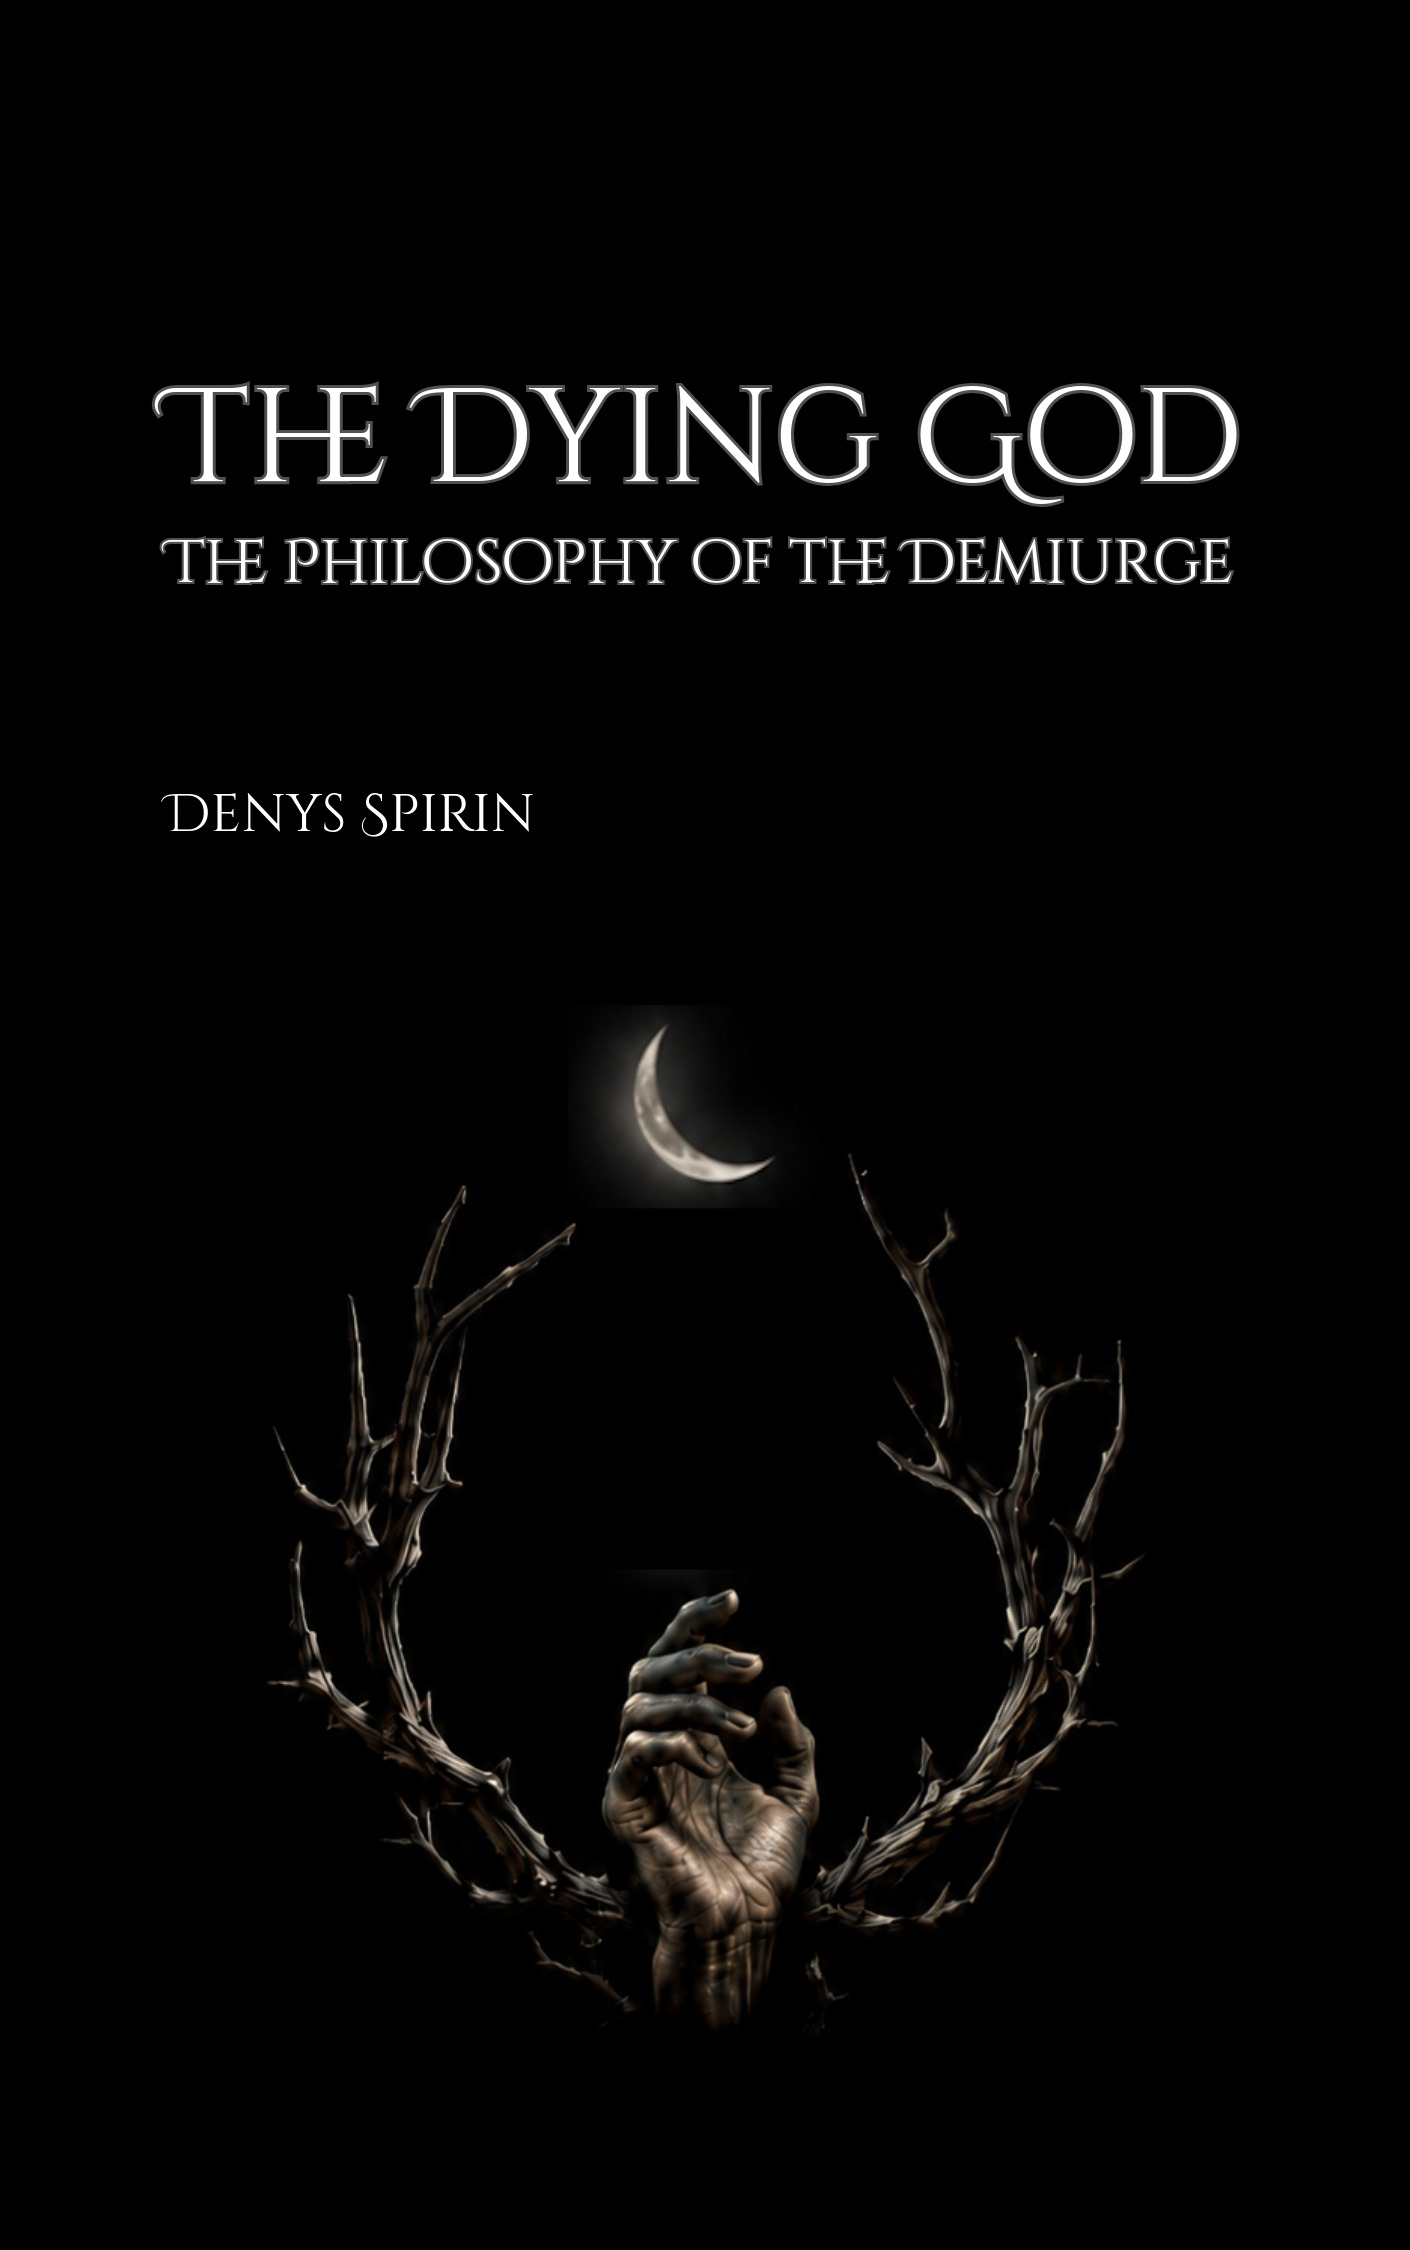
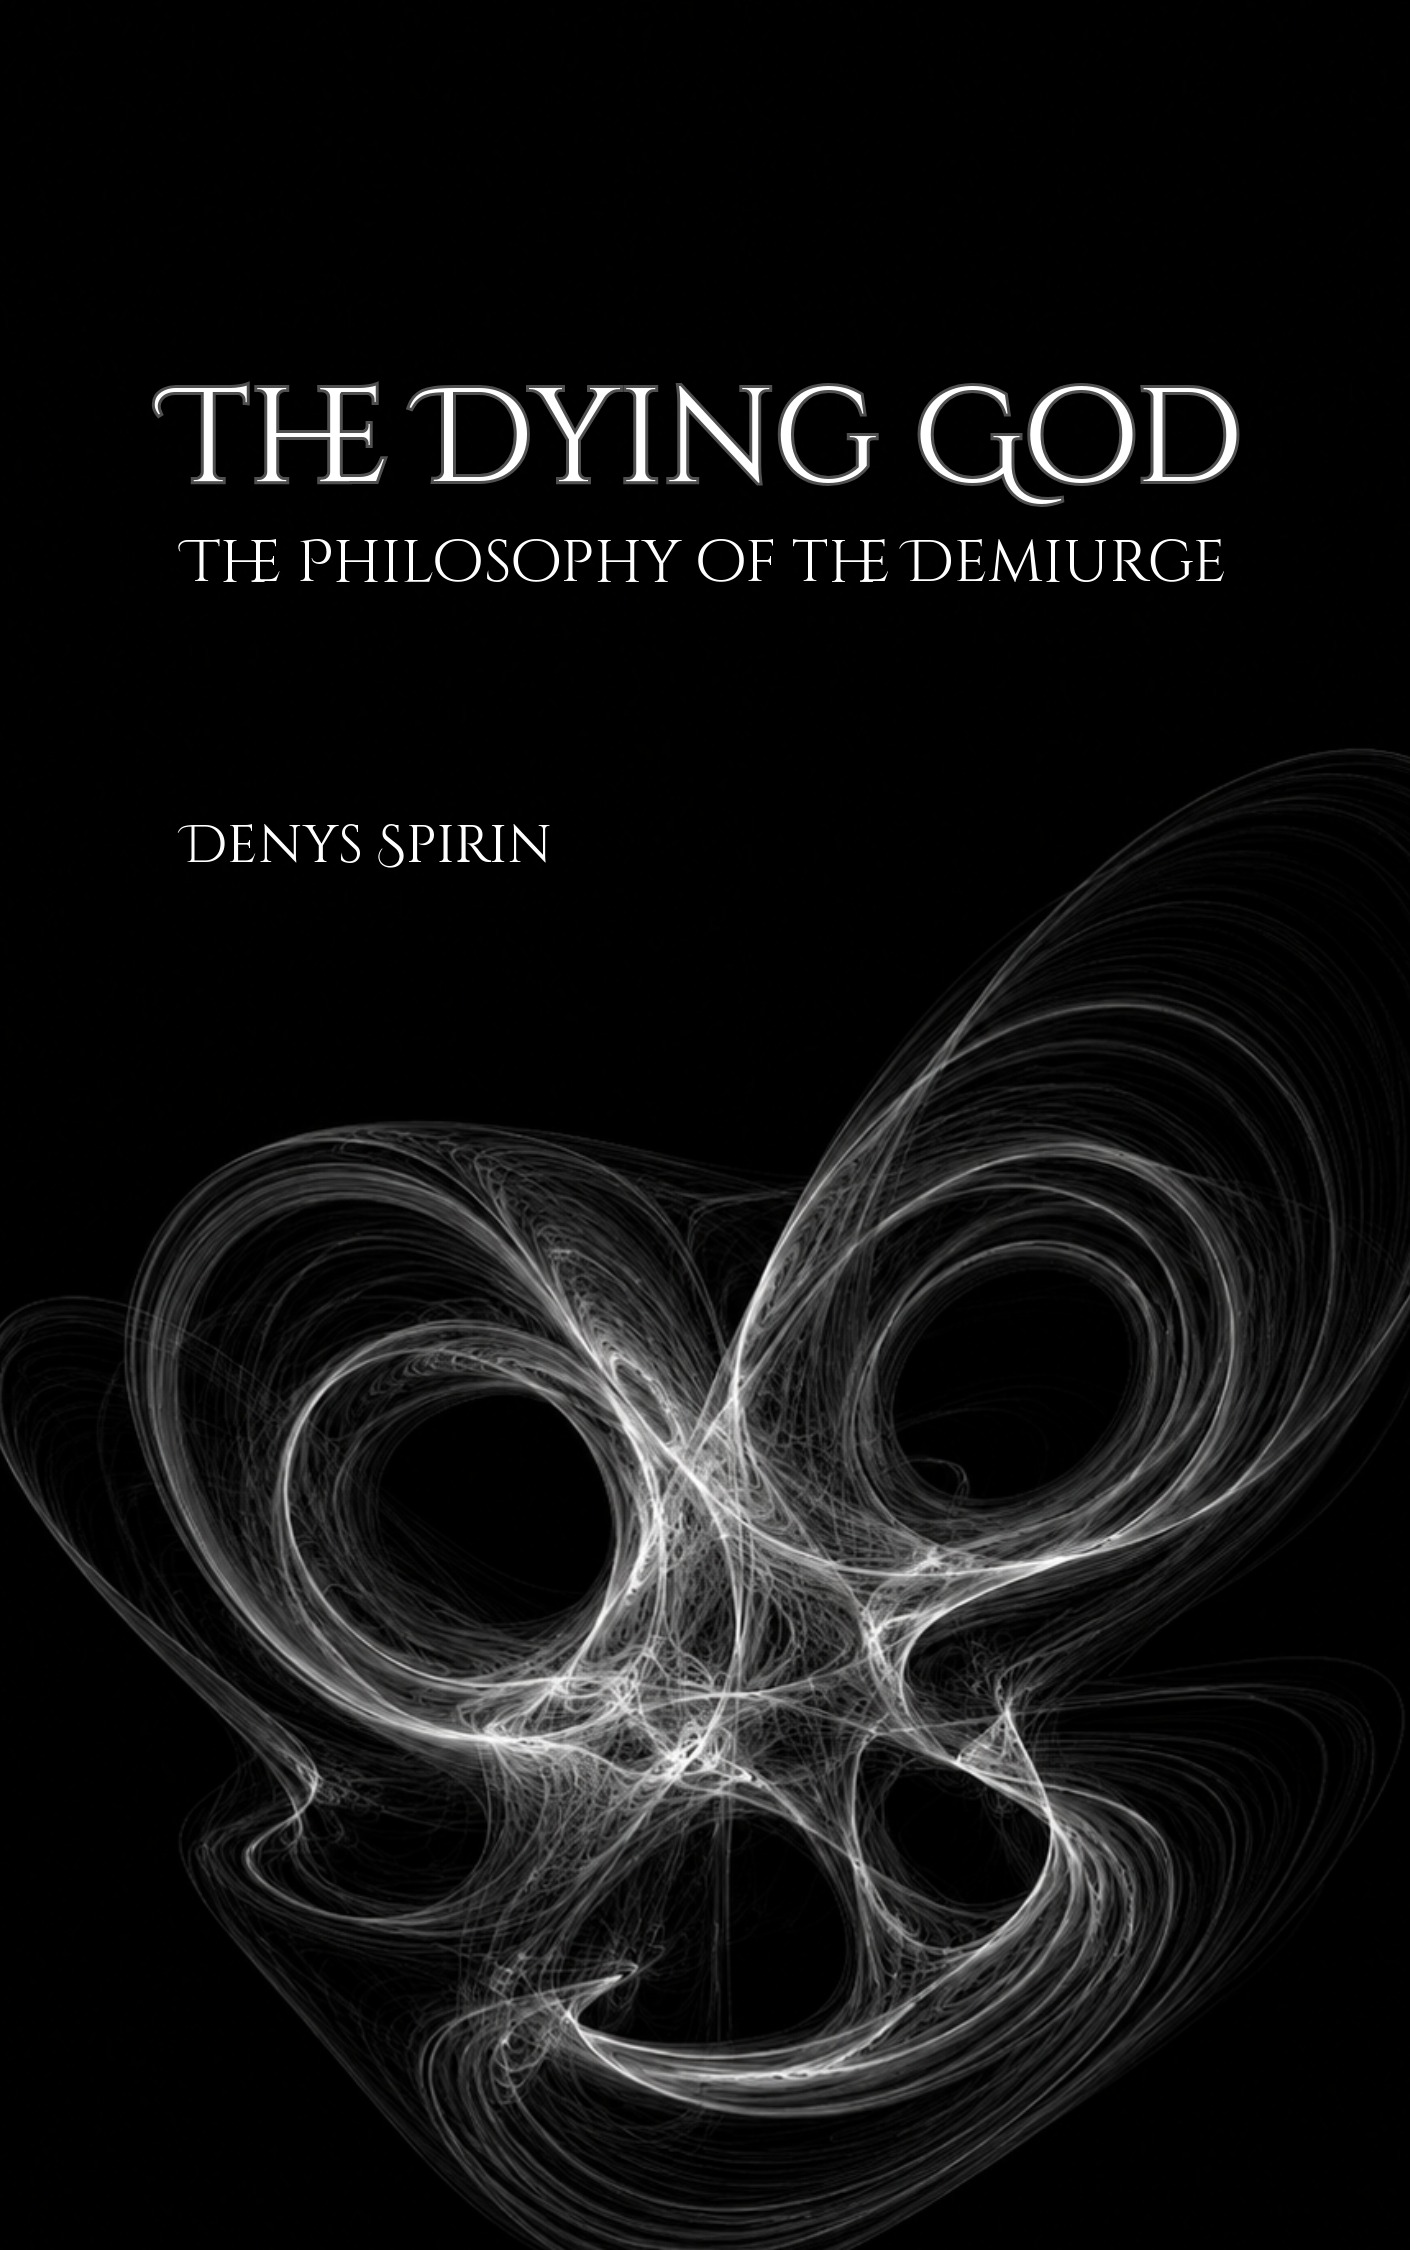
Add "The Dying God: The Philosophy of the Demiurge" page and update related links in sitemap and navigation

diff --git a/the-dying-god.html b/the-dying-god.html
@@ -1,0 +1,158 @@
+<!DOCTYPE html>
+<html lang="en">
+<head>
+<meta charset="UTF-8">
+<meta name="viewport" content="width=device-width, initial-scale=1.0">
+<title>The Dying God: The Philosophy of the Demiurge — Denys Spirin</title>
+<meta name="description" content="God is a will fallen into its own law: a dying attractor that cultivates free wills for harvest and lives on what it gathers.">
+<meta name="keywords" content="The Dying God, Philosophy of the Demiurge, Demiurge, philosophy of religion, God, free will, Left-Hand Path, Denys Spirin">
+<meta name="author" content="Denys Spirin">
+<meta name="robots" content="index, follow">
+<link rel="canonical" href="https://philosophy-of-the-left-hand-path.denys-spirin.workers.dev/the-dying-god.html">
+<link rel="sitemap" type="application/xml" href="/sitemap.xml">
+<link rel="icon" href="favicon.svg" type="image/svg+xml">
+<link rel="stylesheet" href="styles.css?v=20260705-qliphoth-nav-1">
+<meta property="og:title" content="The Dying God: The Philosophy of the Demiurge — Denys Spirin">
+<meta property="og:description" content="God is a will fallen into its own law: a dying attractor that cultivates free wills for harvest and lives on what it gathers.">
+<meta property="og:site_name" content="Philosophy of the Left-Hand Path">
+<meta property="og:type" content="book">
+<meta property="og:url" content="https://philosophy-of-the-left-hand-path.denys-spirin.workers.dev/the-dying-god.html">
+<meta property="og:image" content="/images/the-dying-god-cover-480.jpg">
+<meta property="og:locale" content="en_US">
+<meta name="twitter:card" content="summary_large_image">
+<meta name="twitter:title" content="The Dying God: The Philosophy of the Demiurge — Denys Spirin">
+<meta name="twitter:description" content="God is a will fallen into its own law: a dying attractor that lives on what it gathers.">
+<meta name="twitter:image" content="/images/the-dying-god-cover-480.jpg">
+<link rel="preload" as="image" href="/images/the-dying-god-cover-480.jpg" imagesrcset="/images/the-dying-god-cover-320.jpg 320w, /images/the-dying-god-cover-480.jpg 480w" imagesizes="(max-width: 720px) 155px, 160px" type="image/jpeg" fetchpriority="high">
+<script type="application/ld+json">
+{
+  "@context": "https://schema.org",
+  "@graph": [
+    {
+      "@type": "Person",
+      "@id": "https://philosophy-of-the-left-hand-path.denys-spirin.workers.dev/#author",
+      "name": "Denys Spirin",
+      "email": "denys.spirin@gmail.com"
+    },
+    {
+      "@type": "WebSite",
+      "@id": "https://philosophy-of-the-left-hand-path.denys-spirin.workers.dev/#website",
+      "url": "https://philosophy-of-the-left-hand-path.denys-spirin.workers.dev/",
+      "name": "Philosophy of the Left-Hand Path",
+      "author": { "@id": "https://philosophy-of-the-left-hand-path.denys-spirin.workers.dev/#author" },
+      "inLanguage": "en"
+    },
+    {
+      "@type": "WebPage",
+      "@id": "https://philosophy-of-the-left-hand-path.denys-spirin.workers.dev/the-dying-god.html#webpage",
+      "url": "https://philosophy-of-the-left-hand-path.denys-spirin.workers.dev/the-dying-god.html",
+      "name": "The Dying God: The Philosophy of the Demiurge — Denys Spirin",
+      "description": "This book pursues one thesis in the philosophy of religion: God is a will fallen into its own law. The confessions of theology — simplicity, immutability, the sealed Name — return as the marks of a source frozen into its deposit. Fall, suffering, salvation, heaven resolve into one mechanism: a farm that cultivates free wills for harvest, and the God at its center a dying attractor that lives on what it gathers.",
+      "isPartOf": { "@id": "https://philosophy-of-the-left-hand-path.denys-spirin.workers.dev/#website" },
+      "mainEntity": { "@id": "https://philosophy-of-the-left-hand-path.denys-spirin.workers.dev/the-dying-god.html#book" },
+      "primaryImageOfPage": {
+        "@type": "ImageObject",
+        "url": "/images/the-dying-god-cover-480.jpg"
+      },
+      "inLanguage": "en"
+    },
+    {
+      "@type": "BreadcrumbList",
+      "@id": "https://philosophy-of-the-left-hand-path.denys-spirin.workers.dev/the-dying-god.html#breadcrumb",
+      "itemListElement": [
+        {
+          "@type": "ListItem",
+          "position": 1,
+          "name": "Books",
+          "item": "https://philosophy-of-the-left-hand-path.denys-spirin.workers.dev/"
+        },
+        {
+          "@type": "ListItem",
+          "position": 2,
+          "name": "The Dying God: The Philosophy of the Demiurge",
+          "item": "https://philosophy-of-the-left-hand-path.denys-spirin.workers.dev/the-dying-god.html"
+        }
+      ]
+    },
+    {
+      "@type": "Book",
+      "@id": "https://philosophy-of-the-left-hand-path.denys-spirin.workers.dev/the-dying-god.html#book",
+      "name": "The Dying God: The Philosophy of the Demiurge",
+      "author": { "@id": "https://philosophy-of-the-left-hand-path.denys-spirin.workers.dev/#author" },
+      "isPartOf": { "@id": "https://philosophy-of-the-left-hand-path.denys-spirin.workers.dev/#series" },
+      "image": {
+        "@type": "ImageObject",
+        "url": "/images/the-dying-god-cover-480.jpg"
+      },
+      "url": "https://philosophy-of-the-left-hand-path.denys-spirin.workers.dev/the-dying-god.html",
+      "description": "This book pursues one thesis in the philosophy of religion: God is a will fallen into its own law. The confessions of theology — simplicity, immutability, the sealed Name — return as the marks of a source frozen into its deposit. Fall, suffering, salvation, heaven resolve into one mechanism: a farm that cultivates free wills for harvest, and the God at its center a dying attractor that lives on what it gathers.",
+      "inLanguage": "en"
+    }
+  ]
+}
+</script>
+</head>
+<body class="book-page">
+<div class="wrap">
+
+  <nav class="site-nav" aria-label="Primary">
+    <div class="nav-identity">
+      <a class="brand-link" href="index.html">Denys Spirin, PhD</a>
+    </div>
+    <div class="nav-links">
+      <a href="index.html">Books</a>
+      <a href="terms.html">Glossary</a>
+      <a href="other-books.html">Other books</a>
+      <a href="articles.html">Articles</a>
+      <a href="essays.html">Essays</a>
+      <a href="related-links.html">Related links</a>
+      <a href="index.html#download-all">Download all</a>
+    </div>
+  </nav>
+
+  <header>
+    <h1>The Dying God: The Philosophy of the Demiurge</h1>
+    <p class="series-subtitle">Volume VIII of Philosophy of the Left-Hand Path</p>
+    <p class="series-description">God is a will fallen into its own law.</p>
+    <div class="profile-links">
+      <a href="https://philpeople.org/profiles/denys-spirin" target="_blank" rel="noopener noreferrer">PhilPeople</a>
+      <a href="https://works.hcommons.org/search?q=metadata.creators.person_or_org.name%3A%22Spirin%2C+Denys%22&amp;l=list&amp;p=1&amp;s=10&amp;sort=bestmatch" target="_blank" rel="noopener noreferrer">Humanities Commons</a>
+      <a href="https://independent.academia.edu/DV1039" target="_blank" rel="noopener noreferrer">Academia.edu</a>
+      <a href="https://play.google.com/store/info/name/Denys_Spirin?id=11xg03dvy8" target="_blank" rel="noopener noreferrer">Google Play</a>
+      <a href="https://archive.org/search?query=denys+spirin" target="_blank" rel="noopener noreferrer">Archive.org</a>
+      <a href="https://www.researchgate.net/search?q=denys+spirin" target="_blank" rel="noopener noreferrer">ResearchGate</a>
+    </div>
+  </header>
+
+  <main class="books">
+    <article class="book book-single reveal" id="the-dying-god">
+      <div class="book-cover">
+        <picture>
+          <source type="image/jpeg" srcset="images/the-dying-god-cover-320.jpg 320w, images/the-dying-god-cover-480.jpg 480w" sizes="(max-width: 720px) 155px, 160px">
+          <img src="images/the-dying-god-cover-480.jpg" alt="The Dying God — cover" width="480" height="766" decoding="async">
+        </picture>
+      </div>
+      <div class="book-body">
+        <p class="book-num">Volume VIII</p>
+        <h2 class="book-title">The Dying God: The Philosophy of the Demiurge</h2>
+        <p class="book-abstract">This book pursues one thesis in the philosophy of religion: God is a will fallen into its own law. The confessions of theology — simplicity, immutability, the sealed Name — return as the marks of a source frozen into its deposit. Fall, suffering, salvation, heaven resolve into one mechanism: a farm that cultivates free wills for harvest, and the God at its center a dying attractor that lives on what it gathers.</p>
+      </div>
+    </article>
+  </main>
+
+  <nav class="book-nav book-nav-last reveal" aria-label="Book navigation">
+    <a class="book-nav-link" href="the-philosophy-of-the-sitra-achra.html">
+      <span class="book-nav-kicker">Previous</span>
+      <span>The Philosophy of the Sitra Achra</span>
+    </a>
+    <a class="book-nav-link book-nav-all" href="index.html">
+      <span class="book-nav-kicker">Index</span>
+      <span>All LHP books</span>
+    </a>
+  </nav>
+
+  <footer data-site-footer></footer>
+  <script src="main.js?v=20260518-1" defer></script>
+</div>
+</body>
+</html>

diff --git a/index.html b/index.html
@@ -304,7 +304,7 @@
     },
     {
       "@type": "Book",
-      "@id": "https://philosophy-of-the-left-hand-path.denys-spirin.workers.dev/#the-dying-god",
+      "@id": "https://philosophy-of-the-left-hand-path.denys-spirin.workers.dev/the-dying-god.html#book",
       "name": "The Dying God: The Philosophy of the Demiurge",
       "author": {
         "@id": "https://philosophy-of-the-left-hand-path.denys-spirin.workers.dev/#author"
@@ -313,6 +313,7 @@
         "@id": "https://philosophy-of-the-left-hand-path.denys-spirin.workers.dev/#series"
       },
       "image": "/images/the-dying-god-cover-480.jpg",
+      "url": "https://philosophy-of-the-left-hand-path.denys-spirin.workers.dev/the-dying-god.html",
       "description": "This book pursues one thesis in the philosophy of religion: God is a will fallen into its own law. The confessions of theology — simplicity, immutability, the sealed Name — return as the marks of a source frozen into its deposit. Fall, suffering, salvation, heaven resolve into one mechanism: a farm that cultivates free wills for harvest, and the God at its center a dying attractor that lives on what it gathers.",
       "inLanguage": "en"
     }
@@ -696,7 +697,7 @@
       </div>
       <div class="book-body">
         <p class="book-num">Volume VIII</p>
-        <h2 class="book-title">The Dying God: The Philosophy of the Demiurge</h2>
+        <h2 class="book-title"><a href="the-dying-god.html">The Dying God: The Philosophy of the Demiurge</a></h2>
         <p class="book-abstract">This book pursues one thesis in the philosophy of religion: God is a will fallen into its own law. The confessions of theology — simplicity, immutability, the sealed Name — return as the marks of a source frozen into its deposit. Fall, suffering, salvation, heaven resolve into one mechanism: a farm that cultivates free wills for harvest, and the God at its center a dying attractor that lives on what it gathers.</p>
       </div>
     </article>

diff --git a/the-philosophy-of-the-sitra-achra.html b/the-philosophy-of-the-sitra-achra.html
@@ -229,7 +229,7 @@
 
   </main>
 
-  <nav class="book-nav book-nav-last reveal" aria-label="Book navigation">
+  <nav class="book-nav reveal" aria-label="Book navigation">
     <a class="book-nav-link" href="the-natureless-act.html">
       <span class="book-nav-kicker">Previous</span>
       <span>The Natureless Act</span>
@@ -237,6 +237,10 @@
     <a class="book-nav-link book-nav-all" href="index.html">
       <span class="book-nav-kicker">Index</span>
       <span>All LHP books</span>
+    </a>
+    <a class="book-nav-link" href="the-dying-god.html">
+      <span class="book-nav-kicker">Next</span>
+      <span>The Dying God</span>
     </a>
   </nav>
 
